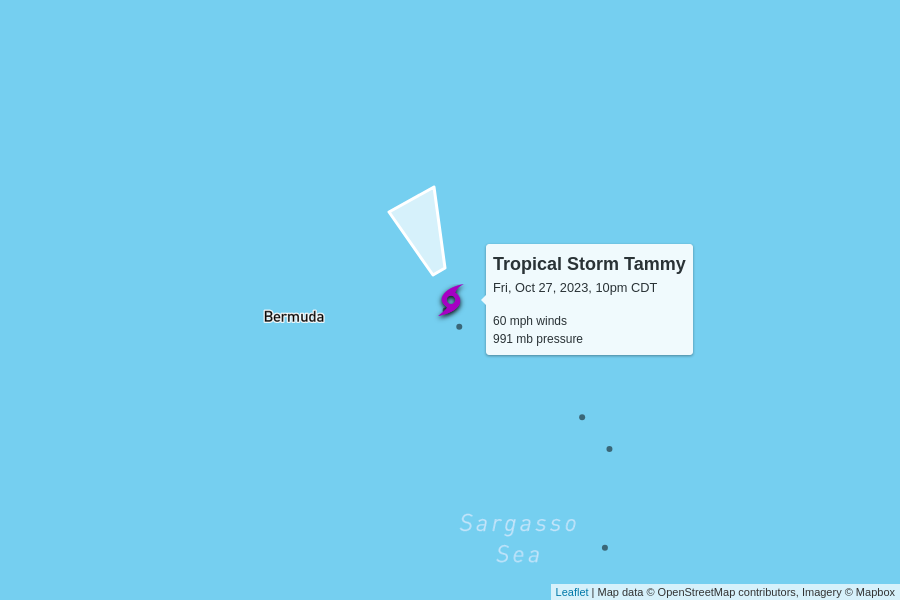
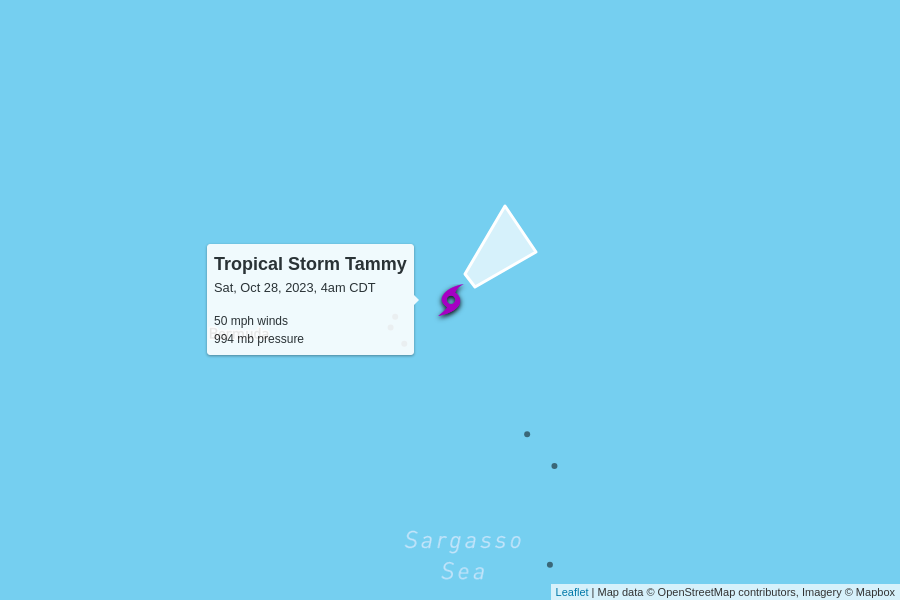
automatic update

Changed region(s): [[0.2178, 0.3, 0.7778, 0.6], [0.4667, 0.87, 0.6222, 0.96]]

diff --git a/docs/index.html b/docs/index.html
@@ -102,7 +102,7 @@
         <td colspan="6" class="storm category-0" >
           <h2>
             Tropical Storm Tammy
-            <p class="updated">last updated <span data-time>2023-10-28T03:00:00.000Z</span></p>
+            <p class="updated">last updated <span data-time>2023-10-28T09:00:00.000Z</span></p>
           </h2>
         </td>
       </tr>
@@ -117,12 +117,12 @@
       </tr>
       <tr>
         <td class="spacer"></td>
-        <td>60 mph<br>-5 mph since last update</td>
-        <td>991 mb<br>+3 mb since last update</td>
+        <td>50 mph<br>-10 mph since last update</td>
+        <td>994 mb<br>+3 mb since last update</td>
         <td>
-          5 mph to the north-northwest
+          7 mph to the northeast
           <br/>
-          <span style="display: inline-block; font-size: 1.5em; transform: rotate(335deg);">↑</span>
+          <span style="display: inline-block; font-size: 1.5em; transform: rotate(50deg);">↑</span>
         </td>
         <td><a href="https://raw.githubusercontent.com/mgwalker/atlantic-hurricanes/main/data/csv/AL202023.csv">AL202023.csv</a></td>
         <td><a href="https://www.nhc.noaa.gov/archive/2023/TAMMY.shtml?">NHC advisories</a></td>
